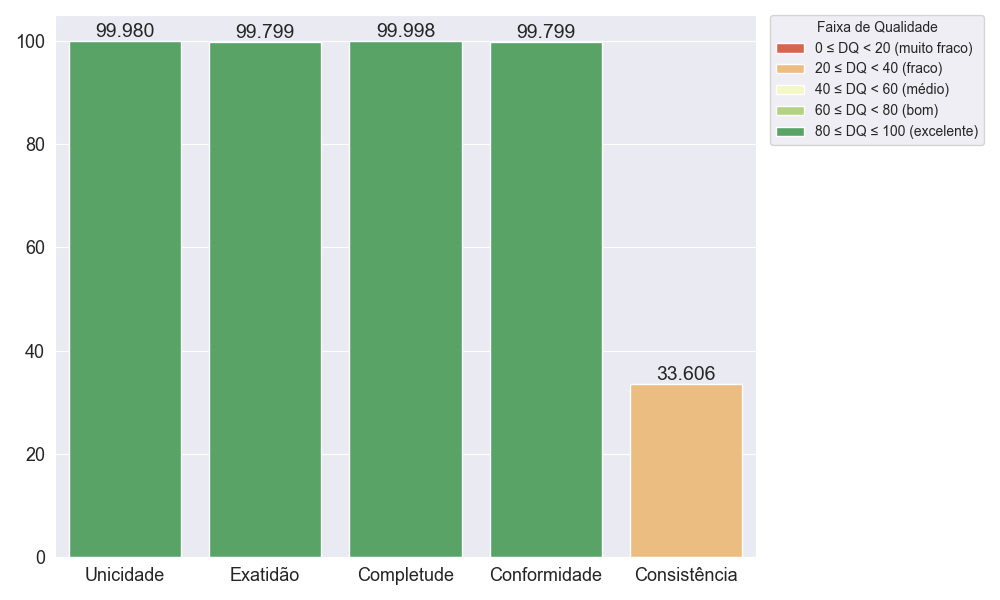
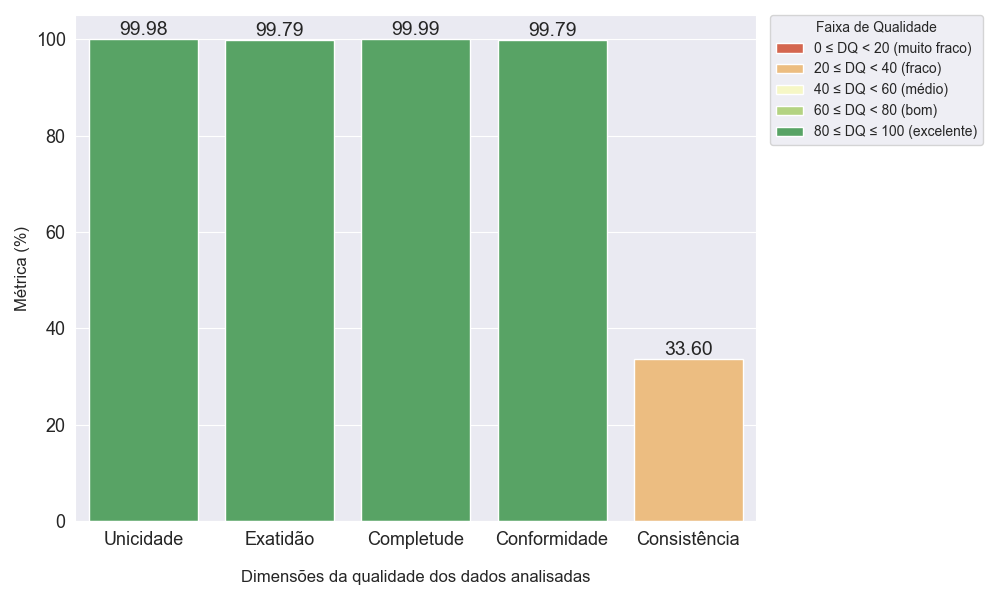
atualização para do resultado das metricas e do gráfico para 2 casas decimais, ajuste das funções que calcula as metricas de dimensões

Changed region(s): [[0.0, 0.03, 0.744, 0.99], [0.806, 0.03, 0.992, 0.24]]

diff --git a/analise_qualidade/dimensoes_metricas.py b/analise_qualidade/dimensoes_metricas.py
@@ -26,7 +26,10 @@ def metrica_unicidade(total_df_sistec):
         total_linhas_diferenca = (total_df_sistec - duplicado_total_linhas) 
         print('Diferença de total de duplicadas/ Total linhas dataframe', total_linhas_diferenca)
         porcentagem_qualidade = (total_linhas_diferenca / total_df_sistec) * 100
-        porcenta_tres_decimais  = "{:.3f}".format(porcentagem_qualidade)
+
+        truncado = int(porcentagem_qualidade * 100) / 100
+        porcenta_tres_decimais = "{:.2f}".format(truncado)
+
         print("porcentagem da qualidade dos dados", porcenta_tres_decimais)
         salvar_dados_metrica('Unicidade', porcenta_tres_decimais)
     else:
@@ -41,7 +44,10 @@ def metrica_exatidao(df_dados_categorizados,total_df_sistec):
     total_linhas_diferenca = (total_df_sistec - exatidao_total_linhas) 
     print('Diferença de total inconsistencia/ Total linhas dataframe', total_linhas_diferenca)
     porcentagem_qualidade = (total_linhas_diferenca / total_df_sistec) * 100
-    porcenta_tres_decimais  = "{:.3f}".format(porcentagem_qualidade)
+    
+    truncado = int(porcentagem_qualidade * 100) / 100
+    porcenta_tres_decimais = "{:.2f}".format(truncado)
+
     print("porcentagem da qualidade dos dados", porcenta_tres_decimais)
     salvar_dados_metrica('Exatidão', porcenta_tres_decimais)
   
@@ -54,7 +60,10 @@ def metrica_completude(df_dados_categorizados,total_df_sistec):
     total_linhas_diferenca = (total_df_sistec - completude_total_linhas) 
     print('Diferença de total inconsistencia/ Total linhas dataframe', total_linhas_diferenca)
     porcentagem_qualidade = (total_linhas_diferenca / total_df_sistec) * 100
-    porcenta_tres_decimais  = "{:.3f}".format(porcentagem_qualidade)
+
+    truncado = int(porcentagem_qualidade * 100) / 100
+    porcenta_tres_decimais = "{:.2f}".format(truncado)
+
     print("porcentagem da qualidade dos dados", porcenta_tres_decimais)
     salvar_dados_metrica('Completude', porcenta_tres_decimais)
 
@@ -67,7 +76,10 @@ def metrica_conformidade( df_dados_categorizados,total_df_sistec):
     total_linhas_diferenca = (total_df_sistec - conformidade_total_linhas) 
     print('Diferença de total inconsistencia/ Total linhas dataframe', total_linhas_diferenca)
     porcentagem_qualidade = (total_linhas_diferenca / total_df_sistec) * 100
-    porcenta_tres_decimais  = "{:.3f}".format(porcentagem_qualidade)
+    
+    truncado = int(porcentagem_qualidade * 100) / 100
+    porcenta_tres_decimais = "{:.2f}".format(truncado)
+
     print("porcentagem da qualidade dos dados", porcenta_tres_decimais)
     salvar_dados_metrica('Conformidade',porcenta_tres_decimais)
 
@@ -80,7 +92,10 @@ def metrica_consistencia( df_dados_categorizados,total_df_sistec):
     total_linhas_diferenca = (total_df_sistec - consistencia_total_linhas) 
     print('Diferença de total inconsistencia/ Total linhas dataframe', total_linhas_diferenca)
     porcentagem_qualidade = (total_linhas_diferenca / total_df_sistec) * 100
-    porcenta_tres_decimais  = "{:.3f}".format(porcentagem_qualidade)
+    
+    truncado = int(porcentagem_qualidade * 100) / 100
+    porcenta_tres_decimais = "{:.2f}".format(truncado)
+
     print("porcentagem da qualidade dos dados", porcenta_tres_decimais)
     salvar_dados_metrica('Consistência', porcenta_tres_decimais)
 

diff --git a/analise_inconsistencias_qualidade/analise_inconsistencia.py b/analise_inconsistencias_qualidade/analise_inconsistencia.py
@@ -1,14 +1,14 @@
 import pandas as pd 
 
 
-# Código criado para realizar tabelas 
-df_sistec_inco = pd.read_csv('inconsistencias/sistec_ifb_inconsistencias_unido.csv')
-incon_coluna = df_sistec_inco.groupby(['coluna', 'tipo_inconsistencia'])['tipo_inconsistencia'].count()
-print(incon_coluna)
-print('---------------------------------')
-print('---------------------------------')
+# # Código criado para realizar tabelas 
+# df_sistec_inco = pd.read_csv('inconsistencias/sistec_ifb_inconsistencias_unido.csv')
+# incon_coluna = df_sistec_inco.groupby(['coluna', 'tipo_inconsistencia'])['tipo_inconsistencia'].count()
+# print(incon_coluna)
+# print('---------------------------------')
+# print('---------------------------------')
 
-# Total classificados
+#Total classificados
 df_sistec_inco = pd.read_csv('inconsistencias/sistec_ifb_inconsistencias_unido_classificado.csv')
 incon_dime = df_sistec_inco.groupby(['tipo_inconsistencia', 'Dimensão'])['Dimensão'].count()
 print(incon_dime)
@@ -18,4 +18,8 @@ df_sistec_duplicados = pd.read_csv('inconsistencias/sistec_duplicados.csv')
 total_duplicados = df_sistec_duplicados.shape[0]
 print("total duplicados", total_duplicados)
 
+
+df_sistec_d = pd.read_csv('inconsistencias/sistec_ifb_inconsistencias_unido.csv')
+total_d = df_sistec_d.shape[0]
+print("total duplicados", (total_d + total_duplicados))
 

diff --git a/analise_inconsistencias_qualidade/graficos/graficos.py b/analise_inconsistencias_qualidade/graficos/graficos.py
@@ -22,14 +22,14 @@ paleta_verde = sns.color_palette(palette='RdYlGn', n_colors=len(categorias_quali
 plt.figure(figsize=(10, 6))
 eixo = sns.barplot(data=df_inconsistencias, x='Dimensão', y='Porcentagem da qualidade', hue='Faixa de Qualidade', palette=paleta_verde, dodge=False)
 
-eixo.set_xlabel('')  # Remover titulo eixo X 
+eixo.set_xlabel('Dimensões da qualidade dos dados analisadas', fontsize=12,labelpad=15)  # Remover titulo eixo X 
 
-eixo.set_ylabel('')  # Remover titulo eixo Y
+eixo.set_ylabel('Métrica (%)', fontsize=12)  # Remover titulo eixo Y
 
 eixo.tick_params(labelsize=13)
 
 for barra in eixo.containers:
-     eixo.bar_label(barra, labels=[f'{p.get_height():.3f}' for p in barra], fontsize=14)
+     eixo.bar_label(barra, labels=[f'{p.get_height():.2f}' for p in barra], fontsize=14)
 
 plt.legend(
     bbox_to_anchor=(1.02, 1),
